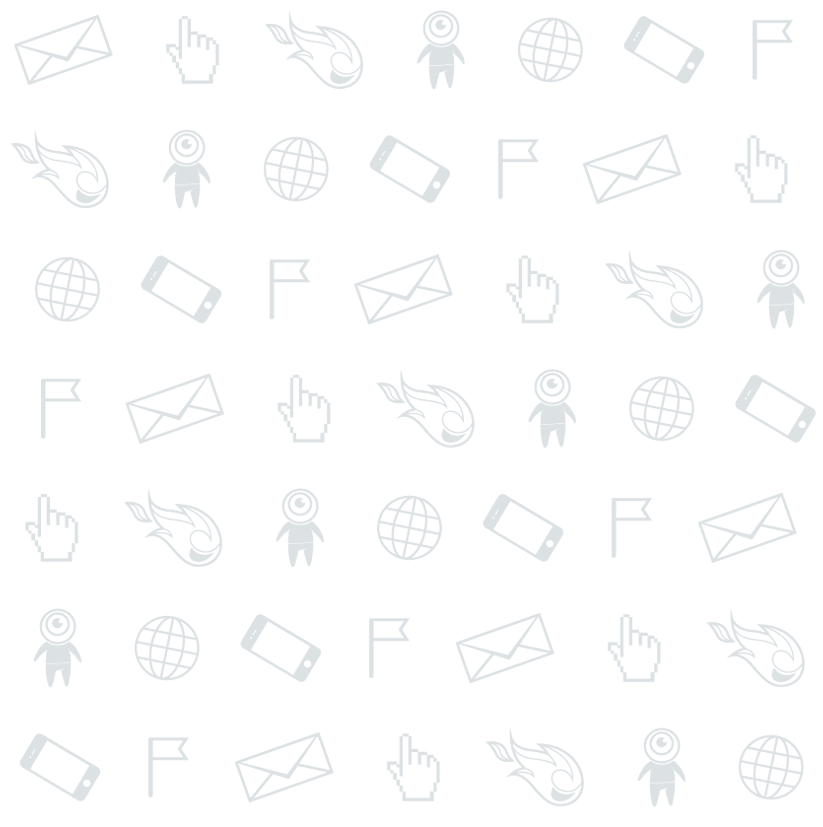
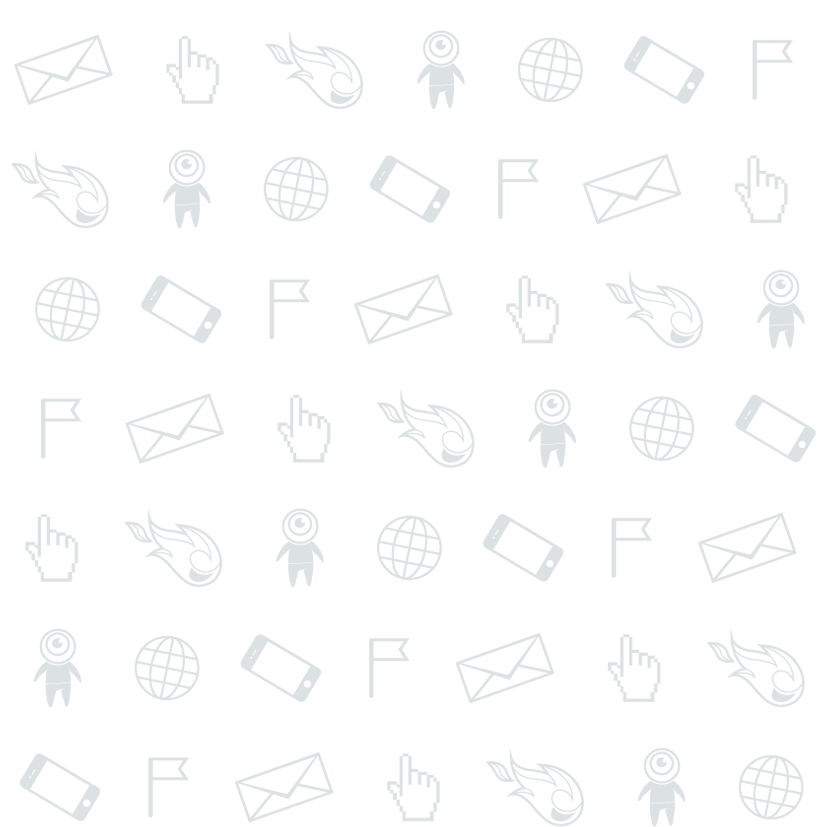
upd site background

diff --git a/assets/css/main.css b/assets/css/main.css
@@ -1,1 +1,1 @@
-@font-face{font-family:"svg-font";src:url("./../fonts/svg-font.eot");src:url("./../fonts/svg-font.eot?#iefix") format("eot"),url("./../fonts/svg-font.woff2") format("woff2"),url("./../fonts/svg-font.woff") format("woff"),url("./../fonts/svg-font.ttf") format("truetype"),url("./../fonts/svg-font.svg#svg-font") format("svg")}.icon,[class^="icon-"],[class*=" icon-"]{font-family:"svg-font" !important;speak:none;font-style:normal;font-weight:normal;font-variant:normal;text-transform:none;line-height:1;-webkit-font-smoothing:antialiased;-moz-osx-font-smoothing:grayscale}.icon-close:before,.icon-facebook:before,.icon-linkedin:before,.icon-menu:before,.icon-twitter:before{font-family:"svg-font";-webkit-font-smoothing:antialiased;-moz-osx-font-smoothing:grayscale;font-style:normal;font-variant:normal;font-weight:normal;text-decoration:none;text-transform:none}.icon-close:before{content: "\e001"}.icon-facebook:before{content: "\e002"}.icon-linkedin:before{content: "\e003"}.icon-menu:before{content: "\e004"}.icon-twitter:before{content: "\e005"}/*! normalize.css v4.0.0 | MIT License | github.com/necolas/normalize.css */html{font-family:sans-serif;-ms-text-size-adjust:100%;-webkit-text-size-adjust:100%}body{margin:0}article,aside,details,figcaption,figure,footer,header,main,menu,nav,section,summary{display:block}audio,canvas,progress,video{display:inline-block}audio:not([controls]){display:none;height:0}progress{vertical-align:baseline}template,[hidden]{display:none}a{background-color:transparent}a:active,a:hover{outline-width:0}abbr[title]{border-bottom:none;text-decoration:underline;text-decoration:underline dotted}b,strong{font-weight:inherit}b,strong{font-weight:bolder}dfn{font-style:italic}h1{font-size:2em;margin:0.67em 0}mark{background-color:#ff0;color:#000}small{font-size:80%}sub,sup{font-size:75%;line-height:0;position:relative;vertical-align:baseline}sub{bottom:-0.25em}sup{top:-0.5em}img{border-style:none}svg:not(:root){overflow:hidden}code,kbd,pre,samp{font-family:monospace, monospace;font-size:1em}figure{margin:1em 40px}hr{-webkit-box-sizing:content-box;-moz-box-sizing:content-box;box-sizing:content-box;height:0;overflow:visible}button,input,select,textarea{font:inherit}optgroup{font-weight:bold}button,input,select{overflow:visible}button,input,select,textarea{margin:0}button,select{text-transform:none}button,[type="button"],[type="reset"],[type="submit"]{cursor:pointer}[disabled]{cursor:default}button,html [type="button"],[type="reset"],[type="submit"]{-webkit-appearance:button}button::-moz-focus-inner,input::-moz-focus-inner{border:0;padding:0}button:-moz-focusring,input:-moz-focusring{outline:1px dotted ButtonText}fieldset{border:1px solid #c0c0c0;margin:0 2px;padding:0.35em 0.625em 0.75em}legend{-webkit-box-sizing:border-box;-moz-box-sizing:border-box;box-sizing:border-box;color:inherit;display:table;max-width:100%;padding:0;white-space:normal}textarea{overflow:auto}[type="checkbox"],[type="radio"]{-webkit-box-sizing:border-box;-moz-box-sizing:border-box;box-sizing:border-box;padding:0}[type="number"]::-webkit-inner-spin-button,[type="number"]::-webkit-outer-spin-button{height:auto}[type="search"]{-webkit-appearance:textfield}[type="search"]::-webkit-search-cancel-button,[type="search"]::-webkit-search-decoration{-webkit-appearance:none}body{font:400 14px/1.2 "Open Sans","Helvetica Neue",Helvetica,Arial,sans-serif;background:#f8f8f8;color:#222}.text-left{text-align:left}.text-center{text-align:center}.text-right{text-align:right}.row{margin:0 -8px}.row::after{clear:both;content:"";display:table}.col-1{float:left;padding:0 8px;-webkit-box-sizing:border-box;-moz-box-sizing:border-box;box-sizing:border-box;width:8.33333%}.col-2{float:left;padding:0 8px;-webkit-box-sizing:border-box;-moz-box-sizing:border-box;box-sizing:border-box;width:16.66667%}.col-3{float:left;padding:0 8px;-webkit-box-sizing:border-box;-moz-box-sizing:border-box;box-sizing:border-box;width:25%}.col-4{float:left;padding:0 8px;-webkit-box-sizing:border-box;-moz-box-sizing:border-box;box-sizing:border-box;width:33.33333%}.col-5{float:left;padding:0 8px;-webkit-box-sizing:border-box;-moz-box-sizing:border-box;box-sizing:border-box;width:41.66667%}.col-6{float:left;padding:0 8px;-webkit-box-sizing:border-box;-moz-box-sizing:border-box;box-sizing:border-box;width:50%}.col-7{float:left;padding:0 8px;-webkit-box-sizing:border-box;-moz-box-sizing:border-box;box-sizing:border-box;width:58.33333%}.col-8{float:left;padding:0 8px;-webkit-box-sizing:border-box;-moz-box-sizing:border-box;box-sizing:border-box;width:66.66667%}.col-9{float:left;padding:0 8px;-webkit-box-sizing:border-box;-moz-box-sizing:border-box;box-sizing:border-box;width:75%}.col-10{float:left;padding:0 8px;-webkit-box-sizing:border-box;-moz-box-sizing:border-box;box-sizing:border-box;width:83.33333%}.col-11{float:left;padding:0 8px;-webkit-box-sizing:border-box;-moz-box-sizing:border-box;box-sizing:border-box;width:91.66667%}.col-12{float:left;padding:0 8px;-webkit-box-sizing:border-box;-moz-box-sizing:border-box;box-sizing:border-box;width:100%}html{height:100vh}body{background-color:#f8f8f8;min-height:100%;display:-webkit-box;display:-webkit-flex;display:-moz-box;display:-ms-flexbox;display:flex;-webkit-box-orient:vertical;-webkit-box-direction:normal;-webkit-flex-direction:column;-moz-box-orient:vertical;-moz-box-direction:normal;-ms-flex-direction:column;flex-direction:column}a{text-decoration:none}p,h1,h2{margin:0}.main-container{width:100%;max-width:1300px;-webkit-box-flex:1;-webkit-flex:1 0 auto;-moz-box-flex:1;-ms-flex:1 0 auto;flex:1 0 auto;-webkit-align-self:center;-ms-flex-item-align:center;-ms-grid-row-align:center;align-self:center;background:#f2f2f2;padding:0 65px;-webkit-box-sizing:border-box;-moz-box-sizing:border-box;box-sizing:border-box}.header{background:#fff;padding:65px 45px;display:-webkit-box;display:-webkit-flex;display:-moz-box;display:-ms-flexbox;display:flex;-webkit-box-pack:justify;-webkit-justify-content:space-between;-moz-box-pack:justify;-ms-flex-pack:justify;justify-content:space-between;-webkit-box-align:end;-webkit-align-items:flex-end;-moz-box-align:end;-ms-flex-align:end;align-items:flex-end;-webkit-box-shadow:1px 2px 0px #d9dbdc;-moz-box-shadow:1px 2px 0px #d9dbdc;box-shadow:1px 2px 0px #d9dbdc}.menu__item{color:#a7a9ac;text-decoration:none;padding-left:40px;font-size:22px;line-height:1}.landing-newsman{background-color:#fff;padding:0 80px 80px;margin:60px 0;-webkit-box-shadow:1px 2px 0px #d9dbdc;-moz-box-shadow:1px 2px 0px #d9dbdc;box-shadow:1px 2px 0px #d9dbdc}.landing-newsman h1,.landing-newsman h2{color:#ff6700;font-size:55px;font-weight:300}.landing-newsman h1{text-align:center}.landing-newsman p{margin:20px 0;margin-left:300px;font-size:19px;color:#50545a}.landing-newsman__btn-wrap{display:-webkit-box;display:-webkit-flex;display:-moz-box;display:-ms-flexbox;display:flex;-webkit-box-pack:center;-webkit-justify-content:center;-moz-box-pack:center;-ms-flex-pack:center;justify-content:center}.landing-newsman__btn{background:#425da8;color:#96b7ff;-webkit-border-radius:5px;-moz-border-radius:5px;border-radius:5px;font-size:26px;padding:13px 34px;text-transform:uppercase;border:0 solid #2f468f;border-right-width:4px;border-bottom-width:3px}.footer{background:#fff;padding:35px;display:-webkit-box;display:-webkit-flex;display:-moz-box;display:-ms-flexbox;display:flex;-webkit-box-orient:vertical;-webkit-box-direction:normal;-webkit-flex-direction:column;-moz-box-orient:vertical;-moz-box-direction:normal;-ms-flex-direction:column;flex-direction:column;-webkit-box-pack:end;-webkit-justify-content:flex-end;-moz-box-pack:end;-ms-flex-pack:end;justify-content:flex-end;-webkit-box-align:end;-webkit-align-items:flex-end;-moz-box-align:end;-ms-flex-align:end;align-items:flex-end;-webkit-box-shadow:1px 1px 0px #d9dbdc;-moz-box-shadow:1px 1px 0px #d9dbdc;box-shadow:1px 1px 0px #d9dbdc}.footer__nav-wrap{width:100%;display:-webkit-box;display:-webkit-flex;display:-moz-box;display:-ms-flexbox;display:flex;-webkit-box-pack:justify;-webkit-justify-content:space-between;-moz-box-pack:justify;-ms-flex-pack:justify;justify-content:space-between;margin-bottom:30px}.footer .menu{display:inline-block;margin-top:20px}.social__item{font-size:35px;color:#a7afb5;margin-left:20px}
+@font-face{font-family:"svg-font";src:url("./../fonts/svg-font.eot");src:url("./../fonts/svg-font.eot?#iefix") format("eot"),url("./../fonts/svg-font.woff2") format("woff2"),url("./../fonts/svg-font.woff") format("woff"),url("./../fonts/svg-font.ttf") format("truetype"),url("./../fonts/svg-font.svg#svg-font") format("svg")}.icon,[class^="icon-"],[class*=" icon-"]{font-family:"svg-font" !important;speak:none;font-style:normal;font-weight:normal;font-variant:normal;text-transform:none;line-height:1;-webkit-font-smoothing:antialiased;-moz-osx-font-smoothing:grayscale}.icon-close:before,.icon-facebook:before,.icon-linkedin:before,.icon-menu:before,.icon-twitter:before{font-family:"svg-font";-webkit-font-smoothing:antialiased;-moz-osx-font-smoothing:grayscale;font-style:normal;font-variant:normal;font-weight:normal;text-decoration:none;text-transform:none}.icon-close:before{content: "\e001"}.icon-facebook:before{content: "\e002"}.icon-linkedin:before{content: "\e003"}.icon-menu:before{content: "\e004"}.icon-twitter:before{content: "\e005"}/*! normalize.css v4.0.0 | MIT License | github.com/necolas/normalize.css */html{font-family:sans-serif;-ms-text-size-adjust:100%;-webkit-text-size-adjust:100%}body{margin:0}article,aside,details,figcaption,figure,footer,header,main,menu,nav,section,summary{display:block}audio,canvas,progress,video{display:inline-block}audio:not([controls]){display:none;height:0}progress{vertical-align:baseline}template,[hidden]{display:none}a{background-color:transparent}a:active,a:hover{outline-width:0}abbr[title]{border-bottom:none;text-decoration:underline;text-decoration:underline dotted}b,strong{font-weight:inherit}b,strong{font-weight:bolder}dfn{font-style:italic}h1{font-size:2em;margin:0.67em 0}mark{background-color:#ff0;color:#000}small{font-size:80%}sub,sup{font-size:75%;line-height:0;position:relative;vertical-align:baseline}sub{bottom:-0.25em}sup{top:-0.5em}img{border-style:none}svg:not(:root){overflow:hidden}code,kbd,pre,samp{font-family:monospace, monospace;font-size:1em}figure{margin:1em 40px}hr{-webkit-box-sizing:content-box;-moz-box-sizing:content-box;box-sizing:content-box;height:0;overflow:visible}button,input,select,textarea{font:inherit}optgroup{font-weight:bold}button,input,select{overflow:visible}button,input,select,textarea{margin:0}button,select{text-transform:none}button,[type="button"],[type="reset"],[type="submit"]{cursor:pointer}[disabled]{cursor:default}button,html [type="button"],[type="reset"],[type="submit"]{-webkit-appearance:button}button::-moz-focus-inner,input::-moz-focus-inner{border:0;padding:0}button:-moz-focusring,input:-moz-focusring{outline:1px dotted ButtonText}fieldset{border:1px solid #c0c0c0;margin:0 2px;padding:0.35em 0.625em 0.75em}legend{-webkit-box-sizing:border-box;-moz-box-sizing:border-box;box-sizing:border-box;color:inherit;display:table;max-width:100%;padding:0;white-space:normal}textarea{overflow:auto}[type="checkbox"],[type="radio"]{-webkit-box-sizing:border-box;-moz-box-sizing:border-box;box-sizing:border-box;padding:0}[type="number"]::-webkit-inner-spin-button,[type="number"]::-webkit-outer-spin-button{height:auto}[type="search"]{-webkit-appearance:textfield}[type="search"]::-webkit-search-cancel-button,[type="search"]::-webkit-search-decoration{-webkit-appearance:none}body{font:400 14px/1.2 "Open Sans","Helvetica Neue",Helvetica,Arial,sans-serif;background:#f8f8f8 url(../img/background/bg-default.png) 50% 0;color:#222}.text-left{text-align:left}.text-center{text-align:center}.text-right{text-align:right}.row{margin:0 -8px}.row::after{clear:both;content:"";display:table}.col-1{float:left;padding:0 8px;-webkit-box-sizing:border-box;-moz-box-sizing:border-box;box-sizing:border-box;width:8.33333%}.col-2{float:left;padding:0 8px;-webkit-box-sizing:border-box;-moz-box-sizing:border-box;box-sizing:border-box;width:16.66667%}.col-3{float:left;padding:0 8px;-webkit-box-sizing:border-box;-moz-box-sizing:border-box;box-sizing:border-box;width:25%}.col-4{float:left;padding:0 8px;-webkit-box-sizing:border-box;-moz-box-sizing:border-box;box-sizing:border-box;width:33.33333%}.col-5{float:left;padding:0 8px;-webkit-box-sizing:border-box;-moz-box-sizing:border-box;box-sizing:border-box;width:41.66667%}.col-6{float:left;padding:0 8px;-webkit-box-sizing:border-box;-moz-box-sizing:border-box;box-sizing:border-box;width:50%}.col-7{float:left;padding:0 8px;-webkit-box-sizing:border-box;-moz-box-sizing:border-box;box-sizing:border-box;width:58.33333%}.col-8{float:left;padding:0 8px;-webkit-box-sizing:border-box;-moz-box-sizing:border-box;box-sizing:border-box;width:66.66667%}.col-9{float:left;padding:0 8px;-webkit-box-sizing:border-box;-moz-box-sizing:border-box;box-sizing:border-box;width:75%}.col-10{float:left;padding:0 8px;-webkit-box-sizing:border-box;-moz-box-sizing:border-box;box-sizing:border-box;width:83.33333%}.col-11{float:left;padding:0 8px;-webkit-box-sizing:border-box;-moz-box-sizing:border-box;box-sizing:border-box;width:91.66667%}.col-12{float:left;padding:0 8px;-webkit-box-sizing:border-box;-moz-box-sizing:border-box;box-sizing:border-box;width:100%}html{height:100vh}body{background:#f8f8f8 url(../img/background/bg-default.png) 50% 0;min-height:100%;display:-webkit-box;display:-webkit-flex;display:-moz-box;display:-ms-flexbox;display:flex;-webkit-box-orient:vertical;-webkit-box-direction:normal;-webkit-flex-direction:column;-moz-box-orient:vertical;-moz-box-direction:normal;-ms-flex-direction:column;flex-direction:column}a{text-decoration:none}p,h1,h2{margin:0}.main-container{width:100%;max-width:1300px;-webkit-box-flex:1;-webkit-flex:1 0 auto;-moz-box-flex:1;-ms-flex:1 0 auto;flex:1 0 auto;-webkit-align-self:center;-ms-flex-item-align:center;-ms-grid-row-align:center;align-self:center;background:#f2f2f2;padding:0 65px;-webkit-box-sizing:border-box;-moz-box-sizing:border-box;box-sizing:border-box}.header{background:#fff;padding:65px 45px;display:-webkit-box;display:-webkit-flex;display:-moz-box;display:-ms-flexbox;display:flex;-webkit-box-pack:justify;-webkit-justify-content:space-between;-moz-box-pack:justify;-ms-flex-pack:justify;justify-content:space-between;-webkit-box-align:end;-webkit-align-items:flex-end;-moz-box-align:end;-ms-flex-align:end;align-items:flex-end;-webkit-box-shadow:1px 2px 0px #d9dbdc;-moz-box-shadow:1px 2px 0px #d9dbdc;box-shadow:1px 2px 0px #d9dbdc}.menu__item{color:#a7a9ac;text-decoration:none;padding-left:40px;font-size:22px;line-height:1}.landing-newsman{background-color:#fff;padding:0 80px 80px;margin:60px 0;-webkit-box-shadow:1px 2px 0px #d9dbdc;-moz-box-shadow:1px 2px 0px #d9dbdc;box-shadow:1px 2px 0px #d9dbdc}.landing-newsman h1,.landing-newsman h2{color:#ff6700;font-size:55px;font-weight:300}.landing-newsman h1{text-align:center}.landing-newsman p{margin:20px 0;margin-left:300px;font-size:19px;color:#50545a}.landing-newsman__btn-wrap{display:-webkit-box;display:-webkit-flex;display:-moz-box;display:-ms-flexbox;display:flex;-webkit-box-pack:center;-webkit-justify-content:center;-moz-box-pack:center;-ms-flex-pack:center;justify-content:center}.landing-newsman__btn{background:#425da8;color:#96b7ff;-webkit-border-radius:5px;-moz-border-radius:5px;border-radius:5px;font-size:26px;padding:13px 34px;text-transform:uppercase;border:0 solid #2f468f;border-right-width:4px;border-bottom-width:3px}.footer{background:#fff;padding:35px;display:-webkit-box;display:-webkit-flex;display:-moz-box;display:-ms-flexbox;display:flex;-webkit-box-orient:vertical;-webkit-box-direction:normal;-webkit-flex-direction:column;-moz-box-orient:vertical;-moz-box-direction:normal;-ms-flex-direction:column;flex-direction:column;-webkit-box-pack:end;-webkit-justify-content:flex-end;-moz-box-pack:end;-ms-flex-pack:end;justify-content:flex-end;-webkit-box-align:end;-webkit-align-items:flex-end;-moz-box-align:end;-ms-flex-align:end;align-items:flex-end;-webkit-box-shadow:1px 1px 0px #d9dbdc;-moz-box-shadow:1px 1px 0px #d9dbdc;box-shadow:1px 1px 0px #d9dbdc}.footer__nav-wrap{width:100%;display:-webkit-box;display:-webkit-flex;display:-moz-box;display:-ms-flexbox;display:flex;-webkit-box-pack:justify;-webkit-justify-content:space-between;-moz-box-pack:justify;-ms-flex-pack:justify;justify-content:space-between;margin-bottom:30px}.footer .menu{display:inline-block;margin-top:20px}.social__item{font-size:35px;color:#a7afb5;margin-left:20px}

diff --git a/_scss/_base.scss b/_scss/_base.scss
@@ -3,12 +3,10 @@ html {
 }
 
 body {
-    background-color: $bodyBg;
-    // background-image: url(/assets/img/background/bg.svg);
+    background: $bodyBg;
     min-height: 100%;
     display: flex;
     flex-direction: column;
-    //background-repeat: repeat;
 }
 
 a {

diff --git a/_scss/_-vars.scss b/_scss/_-vars.scss
@@ -1,4 +1,4 @@
 // Body
-$bodyBg: #f8f8f8;
+$bodyBg: #f8f8f8 url(../img/background/bg-default.png) 50% 0;
 $bodyFont: 400 14px/1.2 'Open Sans', 'Helvetica Neue', Helvetica, Arial, sans-serif;
 $bodyColor: #222;
